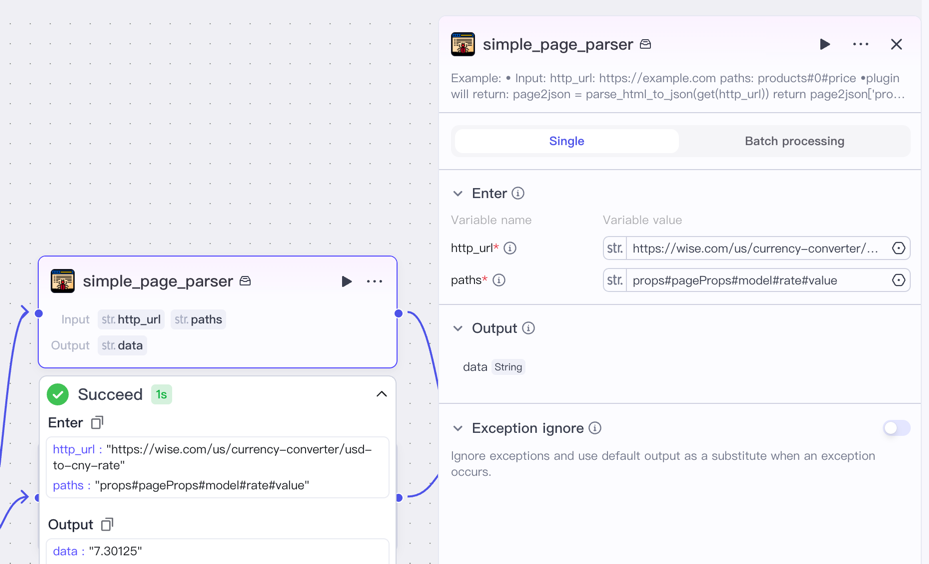
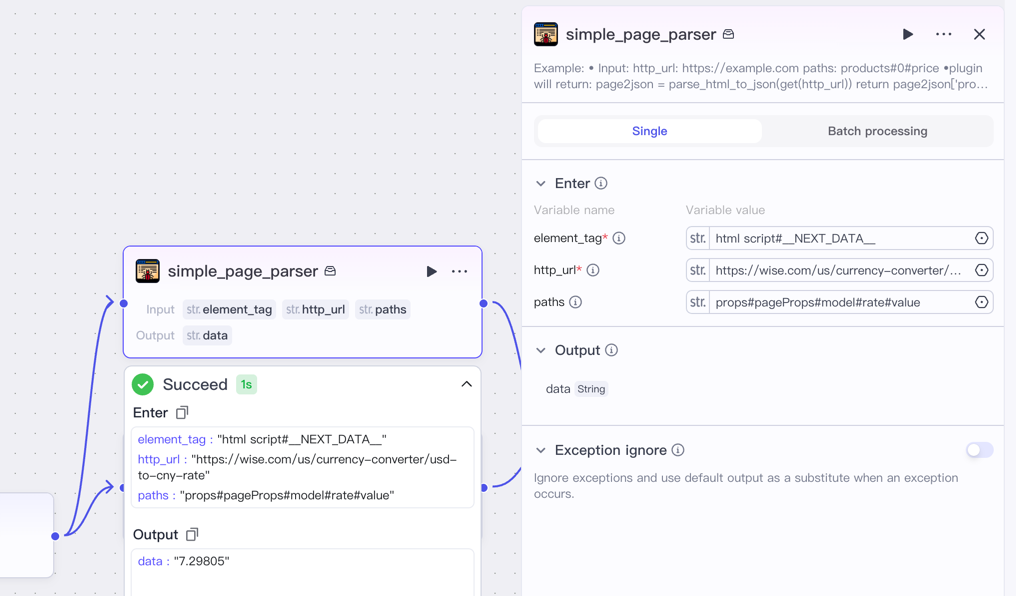
simple page parse: provide element_tag (jquery formation) to select html element

diff --git a/tools/simple_page_parser.py b/tools/simple_page_parser.py
@@ -8,6 +8,7 @@ from dataclasses import dataclass
 class Input:
     http_url: str
     paths: str
+    element_tag: str
 
 @dataclass
 class Args:
@@ -16,21 +17,6 @@ class Args:
 @dataclass
 class Output:
     data: str
-
-# ===== 页面抓取并解析 JSON =====
-def download_webpage_and_parse_json(url):
-    headers = {
-        'User-Agent': 'Mozilla/5.0 (Windows NT 10.0; Win64; x64)'
-    }
-    resp = requests.get(url, headers=headers)
-    resp.raise_for_status()
-
-    soup = BeautifulSoup(resp.text, 'html.parser')
-    script_tag = soup.find('script', id="__NEXT_DATA__")
-    if not script_tag:
-        raise Exception("未找到 __NEXT_DATA__ 脚本标签")
-
-    return json.loads(script_tag.string)
 
 # ===== 按路径提取数据 =====
 def fetch_data_from_webpage_json(json_data, paths):
@@ -43,17 +29,42 @@ def fetch_data_from_webpage_json(json_data, paths):
         target_value = target_value[key]
     return str(target_value)
 
+
+# ===== 页面抓取并解析 JSON =====
+def download_webpage_and_parse_json(url, element_tag, paths):
+    headers = {
+        'User-Agent': 'Mozilla/5.0 (Windows NT 10.0; Win64; x64)'
+    }
+    resp = requests.get(url, headers=headers)
+    resp.raise_for_status()
+
+    soup = BeautifulSoup(resp.text, 'html.parser')
+    # 使用jquery 选择器，选中tag内容
+    current_element = soup.select_one(element_tag)
+    if paths:
+        try:
+            # 如果内容符合 JSON 格式，则尝试解析
+            json_data = json.loads(current_element.string)
+            return fetch_data_from_webpage_json(json_data, paths)
+        except (json.JSONDecodeError, TypeError):
+            # 如果解析失败，则返回 None 或者处理其他逻辑
+            print('content is not formatted in json')
+    else:
+        return current_element.string
+
+
 # ===== 主处理函数 =====
 def handler(args: Args) -> Output:
     url = args.input.http_url
     paths = args.input.paths
-    json_data = download_webpage_and_parse_json(url)
-    target_value = fetch_data_from_webpage_json(json_data, paths)
-    return Output(data=target_value)
+    element_tag = args.input.element_tag
+    parsed_value = download_webpage_and_parse_json(url, element_tag, paths)
+    return Output(data=parsed_value)
 
 # ===== 测试运行 =====
 if __name__ == "__main__":
     url = "https://wise.com/us/currency-converter/usd-to-cny-rate"
     paths = "props#pageProps#model#rate#value"
-    args = Args(input=Input(http_url=url, paths=paths))
+    element_tag = "html script#__NEXT_DATA__"
+    args = Args(input=Input(http_url=url, paths=paths, element_tag=element_tag))
     print(handler(args))

diff --git a/tools/simple_page_parse.md b/tools/simple_page_parse.md
@@ -1,6 +1,6 @@
 # 🌐 HWS Web Scraper Plugin
 
-This plugin allows you to extract **specific values** from structured JSON embedded in webpages, such as exchange rates or product data.
+> This plugin allows you to extract html element values in webpages.  
 
 ---
 
@@ -9,16 +9,33 @@ This plugin allows you to extract **specific values** from structured JSON embed
 1. **Input a URL**  
    The plugin fetches the webpage using the provided URL.
 
-2. **Parse JSON from HTML**  
-   It extracts JSON from the `<script id="__NEXT_DATA__">` tag using BeautifulSoup.
+2. **Parse element text from HTML**  
+   It extracts html element content using BeautifulSoup.
+```python
+soup = BeautifulSoup(resp.text, 'html.parser')
+element_tag = "html script#__NEXT_DATA__" # use jquery selector
+current_element = soup.select_one(element_tag)
+```
 
-3. **Specify a JSON path**  
+3. **Specify a JSON path**
+
+   if element content text is a json body, you should give 'paths' variable in the Coze Plugin Params.  
    Provide a `#`-separated path to locate the desired value inside the JSON structure.
+```python
+target_value = json_data
+for key in paths.split("#"):
+   if key.isdigit() and len(key) < 6:
+      key = int(key)
+   target_value = target_value[key]
+return str(target_value)
+```
+   if it is not a json body, the Plugin will return element content text directly.
 
 4. **Return the result**  
-   The plugin returns the value found at that path.
+   The plugin returns the value found at that path.  
+   Note: if the element content is text, you can pass the text to Coze LLM to further analyze.
 
-## try on coze
+## try on coze workflow
 ![](../_images/simple_page_parse_demo.png)
 
 ---
@@ -28,6 +45,7 @@ This plugin allows you to extract **specific values** from structured JSON embed
 ```json
 {
   "http_url": "https://wise.com/us/currency-converter/usd-to-cny-rate",
+  "element_tag": "html script#__NEXT_DATA__",
   "paths": "props#pageProps#model#rate#value"
 }
 ```
@@ -35,9 +53,10 @@ This plugin allows you to extract **specific values** from structured JSON embed
 ## 📤 Example Output
 ```json
 {
-  "result": "7.25725"
+  "data": "7.25725"
 }
 ```
+
 ## 🧭 Path Syntax
 Use # to navigate through keys and array indexes:
 
